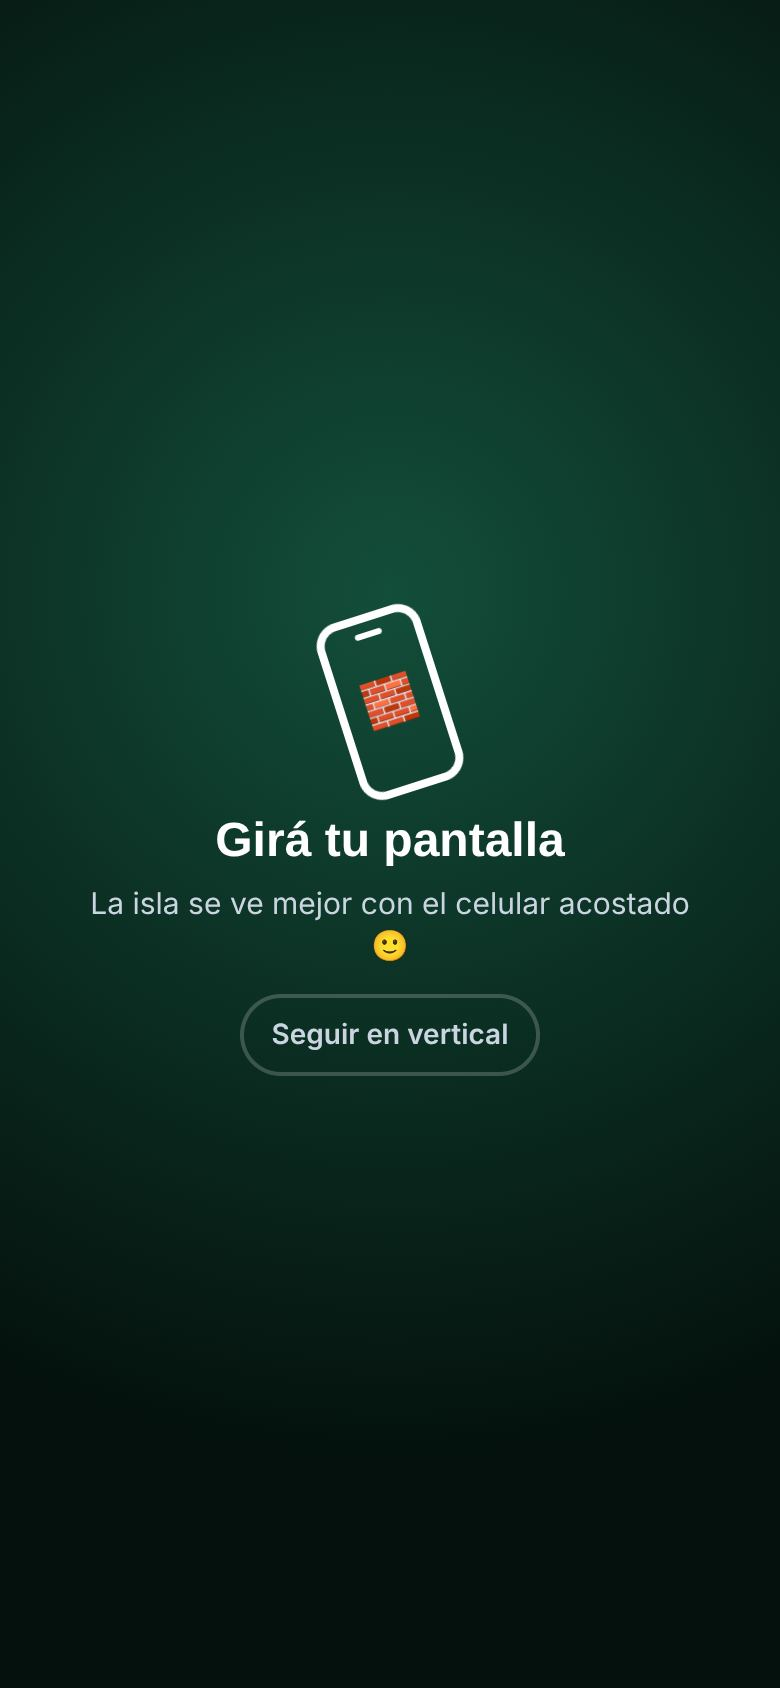
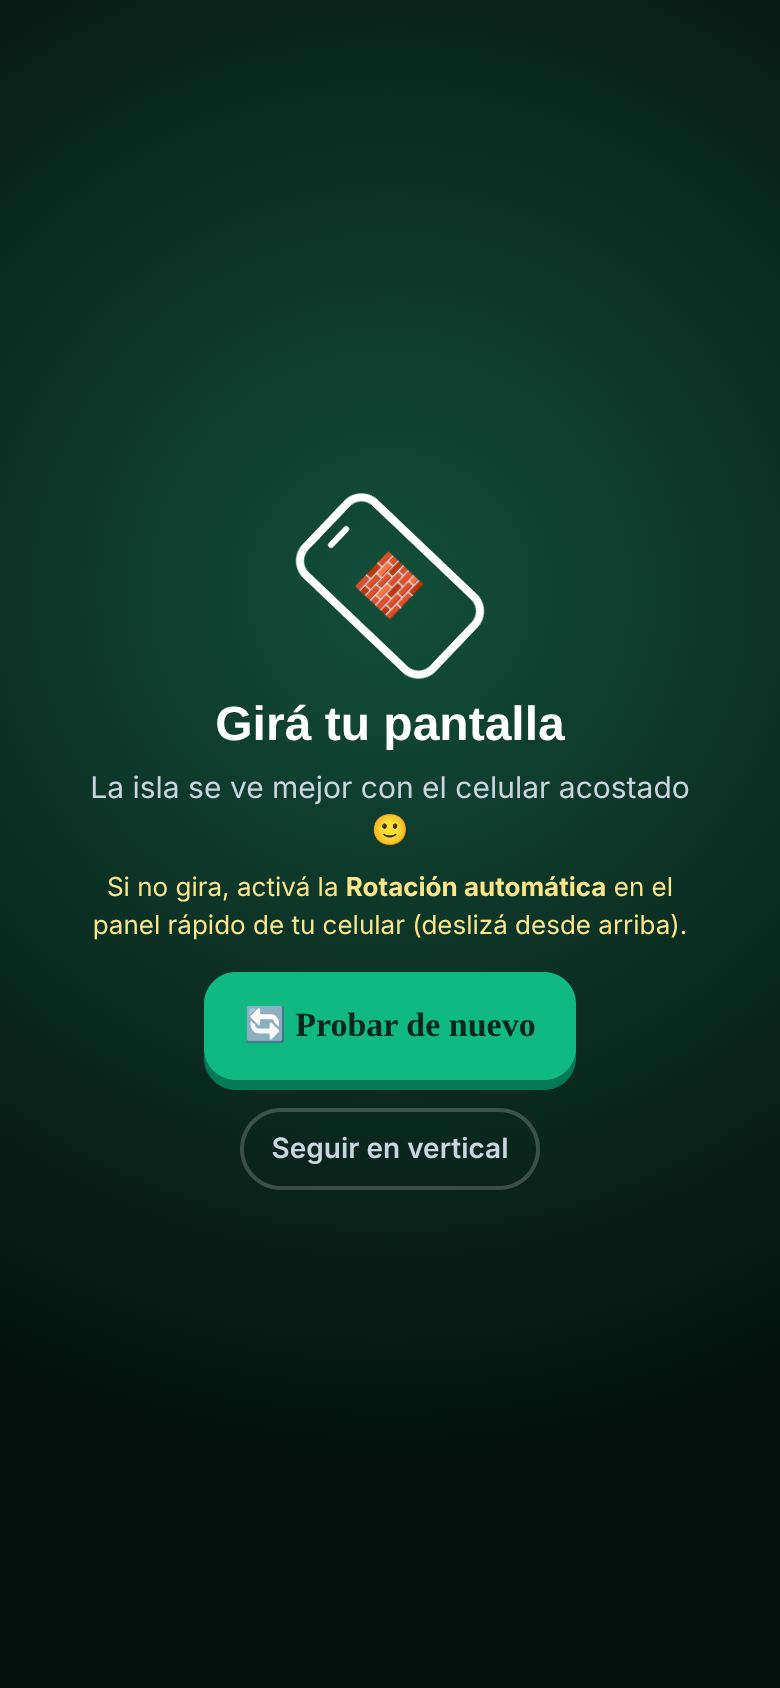
EDU.02c — sin caché vieja en la maqueta y aviso de Rotación automática
- Headers no-cache para /maqueta/**, / y /prueba-motor/** (con cleanUrls la URL no
  termina en .html y el header anterior no aplicaba).
- ?v= en los scripts y estilos propios de la maqueta y en /voz/profes.js.
- 'Girá tu pantalla' explica cómo activar la Rotación automática y suma 'Probar de nuevo'.

Claude-Session: https://claude.ai/code/session_01Jdt98dzvu4TVGmJMb4EDhb

Changed region(s): [[0.0923, 0.2773, 0.8923, 0.7085], [0.1231, 0.4621, 0.1538, 0.4929]]

diff --git a/educacion/maqueta/alumno.html b/educacion/maqueta/alumno.html
@@ -192,6 +192,7 @@
   .inicio .bj { min-height: 64px; padding: 0 40px; font-size: 22px; margin-top: 18px; }
   .inicio .sug, .girar .sug { margin-top: 14px; background: transparent; color: #cbd5e1; border-color: rgba(255,255,255,.2); }
   .girar { z-index: 95; display: none; }
+  .nota-rot { font-size: 13px !important; margin-top: 10px !important; color: #FDE68A !important; }
   .solo-vertical { display: none; }
   .tel { width: 54px; height: 92px; margin: 0 auto 6px; border: 4px solid #fff; border-radius: 12px; position: relative; animation: girar-tel 2.6s ease-in-out infinite; }
   .tel::before { content: ''; position: absolute; left: 50%; top: 5px; width: 14px; height: 3px; margin-left: -7px; border-radius: 3px; background: #fff; }
@@ -273,6 +274,7 @@
     <div class="tel solo-vertical" aria-hidden="true"></div>
     <h1>La isla de 4A</h1>
     <p class="solo-vertical">Girá tu pantalla: se juega con el celular acostado.</p>
+    <p class="solo-vertical nota-rot">Si no gira, activá la <b>Rotación automática</b> en el panel rápido de tu celular (deslizá desde arriba).</p>
     <button class="bj" id="jugar">▶ Jugar</button><br>
     <button class="sug solo-vertical" id="seguir-vertical-1">Seguir en vertical</button>
   </div>
@@ -282,14 +284,16 @@
     <div class="tel" aria-hidden="true"></div>
     <h2 class="t" style="font-size:24px;margin:10px 0 6px">Girá tu pantalla</h2>
     <p>La isla se ve mejor con el celular acostado 🙂</p>
+    <p class="nota-rot">Si no gira, activá la <b>Rotación automática</b> en el panel rápido de tu celular (deslizá desde arriba).</p>
+    <button class="bj" id="girar-jugar" style="margin-top:14px">🔄 Probar de nuevo</button><br>
     <button class="sug" id="seguir-vertical-2">Seguir en vertical</button>
   </div>
 </div>
 
 <div class="panel-velo" id="velo"><div class="panel" id="panel"></div></div>
 
-<script src="datos-demo.js"></script>
-<script src="misiones-demo.js"></script>
+<script src="datos-demo.js?v=edu02c-2"></script>
+<script src="misiones-demo.js?v=edu02c-2"></script>
 <script>
 // ============================================================
 // Maqueta del alumno v2 (EDU.01b). Todo simulado, sin backend.
@@ -369,6 +373,7 @@ function seguirVertical() { document.body.classList.add('vertical-ok'); guardarS
 $('#jugar').onclick = empezar;
 $('#seguir-vertical-1').onclick = seguirVertical;
 $('#seguir-vertical-2').onclick = seguirVertical;
+$('#girar-jugar').onclick = pantallaJuego;
 if (leerSS('alumno-vertical')) document.body.classList.add('vertical-ok');
 // Al volver a la página en la misma visita (p. ej. desde una pestaña), no pedir "Jugar" de nuevo.
 if (leerSS('alumno-jugando')) { $('#inicio').hidden = true; document.body.classList.add('jugando'); }
@@ -846,7 +851,7 @@ function conectarVoz() {
 }
 addEventListener('load', () => setTimeout(() => {
   addEventListener('profes-voz-listo', conectarVoz, { once: true });
-  import('/voz/profes.js').catch(() => { /* sin servidor: queda la ayuda de texto */ });
+  import('/voz/profes.js?v=edu02c-2').catch(() => { /* sin servidor: queda la ayuda de texto */ });
 }, 1200));
 
 // Pedido de ayuda de un compañero (aparece una vez, sin insistir)

diff --git a/educacion/maqueta/index.html b/educacion/maqueta/index.html
@@ -8,7 +8,7 @@
 <title>Educación · ÑANDÉ (maqueta)</title>
 <link rel="preconnect" href="https://fonts.googleapis.com">
 <link href="https://fonts.googleapis.com/css2?family=Space+Grotesk:wght@500;600;700&family=Inter:wght@400;500;600&display=swap" rel="stylesheet">
-<link rel="stylesheet" href="estilos.css">
+<link rel="stylesheet" href="estilos.css?v=edu02c-2">
 <style>
   .entrada { max-width: 560px; margin: 0 auto; padding: 28px 18px 40px; min-height: 100vh; display: flex; flex-direction: column; }
   .logo { display: flex; align-items: center; gap: 10px; margin-bottom: 30px; }
@@ -67,7 +67,7 @@
     <p class="aviso-demo">Maqueta EDU.01b · colegio y nombres inventados · sin datos reales</p>
   </div>
 </div>
-<script src="datos-demo.js"></script>
+<script src="datos-demo.js?v=edu02c-2"></script>
 <script>
   document.getElementById('colegio').textContent = DEMO.colegio.nombre + ' · ' + DEMO.colegio.nota.toLowerCase();
 </script>

diff --git a/educacion/maqueta/padres.html b/educacion/maqueta/padres.html
@@ -8,7 +8,7 @@
 <title>Padres · Educación ÑANDÉ (maqueta)</title>
 <link rel="preconnect" href="https://fonts.googleapis.com">
 <link href="https://fonts.googleapis.com/css2?family=Space+Grotesk:wght@500;600;700&family=Inter:wght@400;500;600&display=swap" rel="stylesheet">
-<link rel="stylesheet" href="estilos.css">
+<link rel="stylesheet" href="estilos.css?v=edu02c-2">
 <style>
   .principal { max-width: 640px; }
   .hijos { display: flex; gap: 8px; margin-bottom: 18px; }
@@ -38,8 +38,8 @@
     <a href="#perfil" data-ruta="perfil"><span class="ico">🌱</span>Cómo aprende</a>
   </nav>
 </div>
-<script src="datos-demo.js"></script>
-<script src="comun.js"></script>
+<script src="datos-demo.js?v=edu02c-2"></script>
+<script src="comun.js?v=edu02c-2"></script>
 <script>
 const D = DEMO, F = D.familia;
 let hijoId = F.hijos[0];

diff --git a/educacion/maqueta/direccion.html b/educacion/maqueta/direccion.html
@@ -8,7 +8,7 @@
 <title>Dirección · Educación ÑANDÉ (maqueta)</title>
 <link rel="preconnect" href="https://fonts.googleapis.com">
 <link href="https://fonts.googleapis.com/css2?family=Space+Grotesk:wght@500;600;700&family=Inter:wght@400;500;600&display=swap" rel="stylesheet">
-<link rel="stylesheet" href="estilos.css">
+<link rel="stylesheet" href="estilos.css?v=edu02c-2">
 </head>
 <body>
 <div class="app">
@@ -28,8 +28,8 @@
     <main class="principal" id="principal"></main>
   </div>
 </div>
-<script src="datos-demo.js"></script>
-<script src="comun.js"></script>
+<script src="datos-demo.js?v=edu02c-2"></script>
+<script src="comun.js?v=edu02c-2"></script>
 <script>
 const D = DEMO;
 U.$('#nom-colegio').textContent = D.colegio.nombre;

diff --git a/educacion/maqueta/tutor.html b/educacion/maqueta/tutor.html
@@ -8,7 +8,7 @@
 <title>Tutor · Educación ÑANDÉ (maqueta)</title>
 <link rel="preconnect" href="https://fonts.googleapis.com">
 <link href="https://fonts.googleapis.com/css2?family=Space+Grotesk:wght@500;600;700&family=Inter:wght@400;500;600&display=swap" rel="stylesheet">
-<link rel="stylesheet" href="estilos.css">
+<link rel="stylesheet" href="estilos.css?v=edu02c-2">
 </head>
 <body>
 <div class="app">
@@ -28,8 +28,8 @@
     <main class="principal" id="principal"></main>
   </div>
 </div>
-<script src="datos-demo.js"></script>
-<script src="comun.js"></script>
+<script src="datos-demo.js?v=edu02c-2"></script>
+<script src="comun.js?v=edu02c-2"></script>
 <script>
 const D = DEMO;
 U.$('#nom-tutor').textContent = D.tutor.nombre;

diff --git a/docs/sesiones/EDU.02c-alumno-horizontal.md b/docs/sesiones/EDU.02c-alumno-horizontal.md
@@ -59,6 +59,15 @@ profe (texto) → casa. Sin errores de JavaScript; controles sin encimarse. Flui
 celular y 6 en tablet **con render por software (sin GPU)**; no es comparable con un celular real
 (EDU.01b medía ~18 fps igual). Los cambios no agregan trabajo al 3D.
 
+**Ajuste (pedido de la MAESTRA: "al dueño le sigue vertical")**
+- Caché: con cleanUrls la página se sirve como `/maqueta/alumno/` y el `no-cache` de `**/*.html` no
+  aplicaba → nuevos headers `no-cache` para `/maqueta/**`, `/` y `/prueba-motor/**`, y `?v=edu02c-2`
+  en los `.js`/`.css` propios de la maqueta y en `/voz/profes.js`. Al cambiar algo de la maqueta, subir ese número.
+- Aviso "Girá tu pantalla": línea "Si no gira, activá la Rotación automática…" y botón "Probar de nuevo"
+  (vuelve a pedir pantalla completa + trabar horizontal, que en Android funciona aunque la rotación esté apagada).
+- Capturas de pantalla: la página no hace nada que las bloquee (no hay `FLAG_SECURE` en la web);
+  en pantalla completa se sacan igual con los botones del celular.
+
 **Pendiente**
 - Afinar la prueba de voz para que espere la llamada a `llamar_profe` antes de dar rojo (falso negativo).
 - Prueba del dueño con un chico, celular acostado: ¿el círculo y los botones quedan cómodos para los pulgares?
